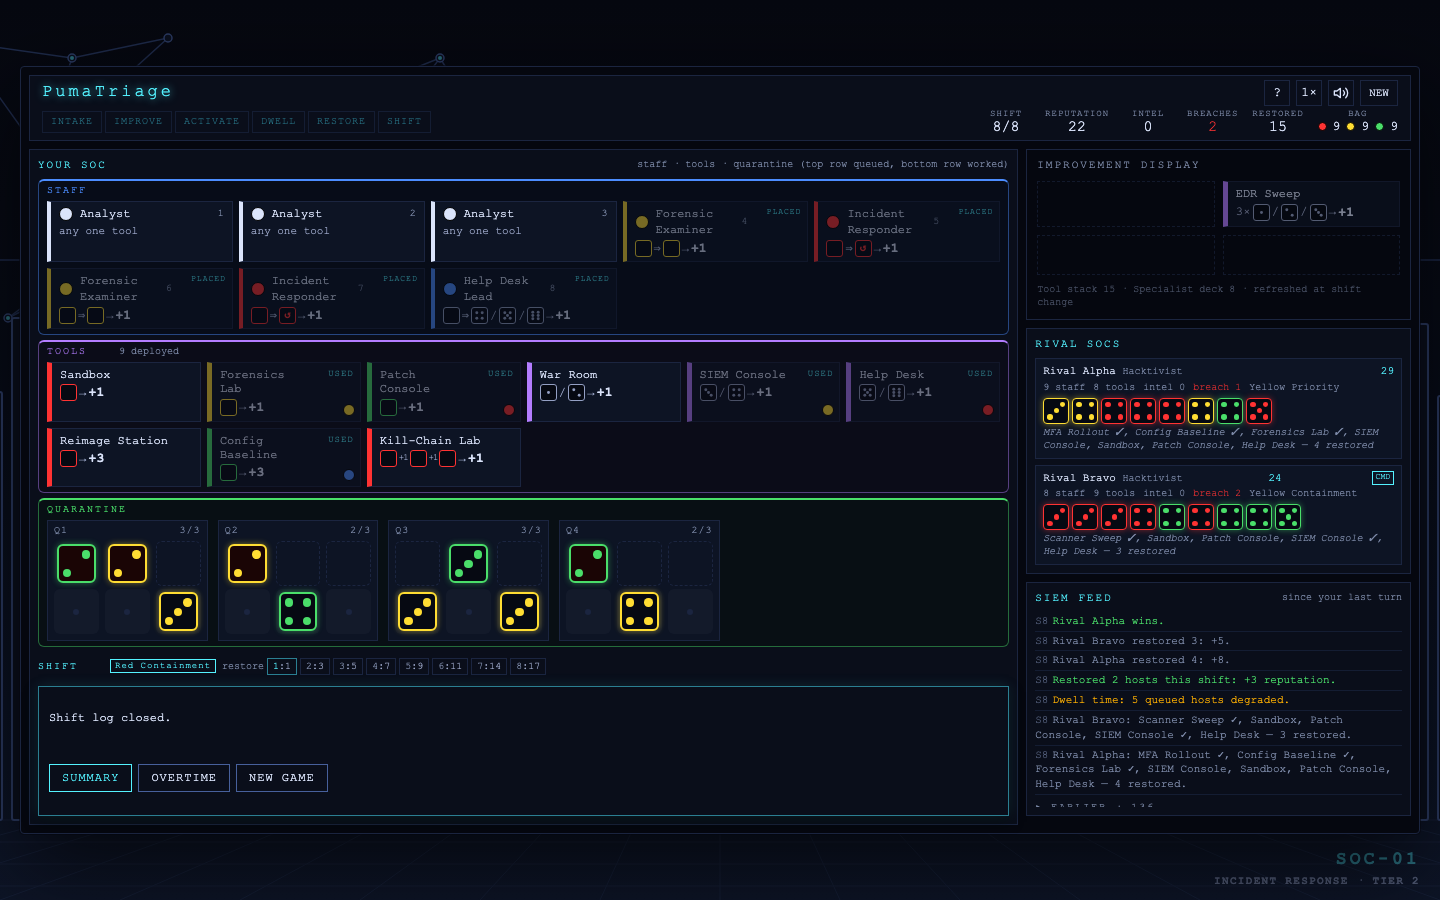
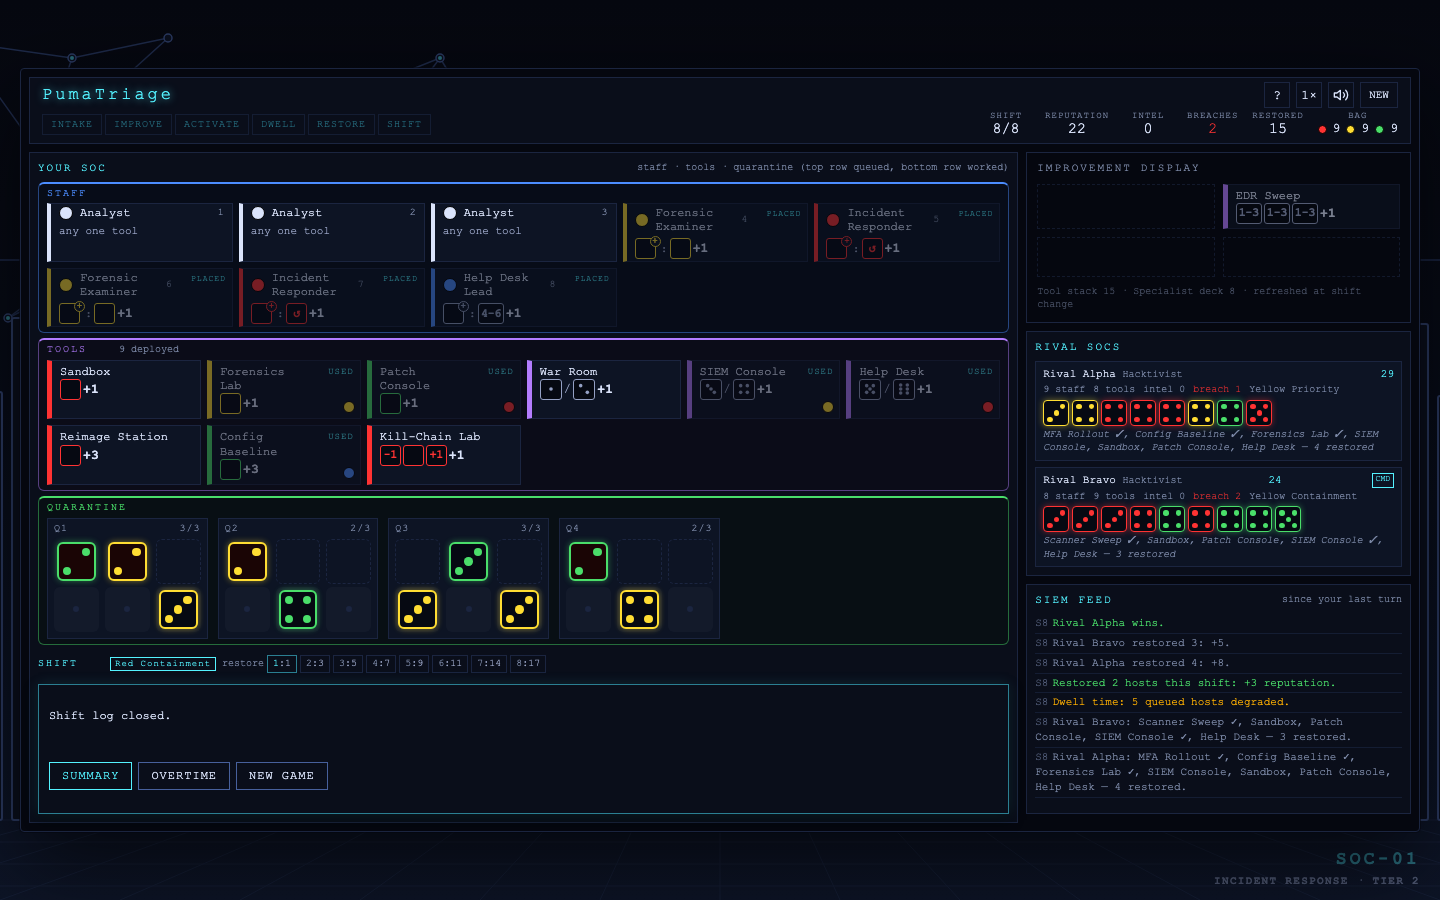
Dice notation as the printed cards; stop dice sliding on every action
Notation, from the Dice Hospital reference page:
- What a die needs is written inside it: two values stay as faces
  (War Room 1/2), a wider range is a number (EDR Sweep 1-3 1-3 1-3), a run
  is -1 · blank · +1, the same value is = = =.
- No arrows. A tool is its dice, then the heal. A specialist is its
  trigger die, badged + as on the printed card, a colon, then the
  follow-up: Incident Responder reads [red+] : [red ↺] +1.
- Dice on the cards grow from 17 to 21px. Cards keep their height: the
  space comes out of the card padding and a name line trimmed to its
  dot, and staff cards keep a 3-4px gap between name and dice.

Fix: every action slid every die, as if animating back into place. A
render drops the side table's fitted height, so for a moment the
centred game sat elsewhere (38px higher at 1440x900), and the FLIP
animation measured the dice there. The heights now go back on straight
after the render, before anything reads a position: an analyst click
went from 11 of 11 dice sliding to none. Only showed where the side
column is the taller one, which is why the preview pane missed it.

Rules untouched (headless sims unchanged). README and screenshots
updated.

diff --git a/index.html b/index.html
@@ -406,10 +406,10 @@ a { color: var(--accent); }
 .dept-tile .meep-on { position: absolute; right: 6px; bottom: 6px; width: 12px; height: 12px; }
 
 .meeple {
-  display: flex; flex-direction: column; gap: 3px; padding: 6px 8px; border: 1px solid var(--border); border-left: 4px solid var(--border);
+  display: flex; flex-direction: column; gap: 3px; padding: 5px 8px 4px; border: 1px solid var(--border); border-left: 4px solid var(--border);
   background: var(--panel-2); cursor: default; font-size: 12px; min-height: 52px; transition: box-shadow .2s, border-color .2s; position: relative;
 }
-.meeple .mh { display: flex; align-items: center; gap: 7px; color: var(--white); }
+.meeple .mh { display: flex; align-items: center; gap: 7px; color: var(--white); line-height: 14px; } /* the dot's height: room for the dice below */
 .meeple .dot { width: 14px; height: 14px; border-radius: 50%; border: 1px solid #000; flex: none; }
 .meeple .key { color: var(--text-dim); font-size: 10px; margin-left: auto; }
 .meeple .ab { font-size: 11px; color: var(--text); line-height: 1.3; }
@@ -450,14 +450,17 @@ a { color: var(--accent); }
 
 /* Pictograms: a card's rule in dice. */
 .pg { display: inline-flex; align-items: center; flex-wrap: wrap; gap: 2px; line-height: 1; vertical-align: middle; }
-.pd { box-sizing: border-box; width: 17px; height: 17px; flex: none; display: inline-flex; align-items: center; justify-content: center;
+.pd { box-sizing: border-box; min-width: 21px; height: 21px; padding: 0 2px; flex: none; display: inline-flex; align-items: center; justify-content: center;
   border: 1.5px solid currentColor; border-radius: 3px; background: #060912; color: #94a0c4; }
-.pd svg { width: 13px; height: 13px; fill: currentColor; }
-.pd b { font: bold 11px/1 var(--font-mono); }
+.pd svg { width: 16px; height: 16px; fill: currentColor; }
+.pd b { font: bold 12px/1 var(--font-mono); letter-spacing: -0.5px; }
+/* A specialist's trigger: the die it heals, badged + as on the printed card. */
+.pd.trig { position: relative; margin-right: 3px; }
+.pd.trig::after { content: "+"; position: absolute; top: -3px; right: -6px; width: 9px; height: 9px; border-radius: 50%;
+  border: 1px solid currentColor; background: var(--panel-2); font: bold 9px/8px var(--font-mono); text-align: center; }
 .pd.c-red { color: var(--red); } .pd.c-yellow { color: var(--yellow); } .pd.c-green { color: var(--green); }
 .pd.c-pink { color: var(--pink); } .pd.c-white { color: var(--white); } .pd.c-blue { color: var(--blue); }
 .ps { color: var(--text); font-size: 12px; }
-.ps.pl { font-size: 9px; letter-spacing: -1px; } /* the +1 between dice in a run */
 .pe { color: var(--white); font-size: 13px; font-weight: bold; } .pe.c-pink { color: var(--pink); }
 .pt { color: var(--text); font-size: 11px; }
 .dept-tile .dr, .meeple .ab, .spec-card .sd { color: var(--text); }
@@ -802,12 +805,12 @@ details.addons summary::-webkit-details-marker { display: none; }
   .grp { padding: 3px 8px 5px; margin-bottom: 5px; }
   .grp > .board-row { margin-bottom: 3px; }
   /* Staff stay cards: the pictogram row is one line, the sentence is the hover box. */
-  .meeple { min-height: 0; padding: 4px 8px; gap: 2px; }
+  .meeple { min-height: 0; padding: 2px 8px 2px; gap: 4px; }
   /* Tools: shorter tiles in narrower columns, so one more fits a row. */
   #depts { grid-template-columns: repeat(auto-fill, minmax(150px, 1fr)); gap: 6px; }
-  .dept-tile { min-height: 0; padding: 5px 18px 5px 8px; }
+  .dept-tile { min-height: 0; padding: 4px 18px 4px 8px; }
   .dept-tile .dn { font-size: 12px; }
-  .dept-tile .dr { font-size: 11px; margin-top: 2px; }
+  .dept-tile .dr { font-size: 11px; margin-top: 0; }
   .dept-tile .meep-on { right: 5px; bottom: 5px; }
   .ward { padding: 3px 6px 6px; }
   .slot { width: calc(var(--die) + 6px); height: calc(var(--die) + 6px); }
@@ -4387,8 +4390,8 @@ function rebuildLog() {
 /* The board keeps the tallest it has been this game at this window size:
    the floating game settles at its largest, with the action strip on the
    column's floor and the SIEM feed ending beside it, and a longer prompt or
-   a new row of tools never nudges it back down. Measured last, once the
-   strip's prompt and buttons are in. */
+   a new row of tools never nudges it back down. Measured once the strip's
+   prompt and buttons are in, and before the FLIP animations read positions. */
 function holdBoard() {
   const board = document.getElementById("board");
   if (!board || !document.getElementById("strip")) return;
@@ -4415,12 +4418,15 @@ function updateAll() {
   UI.wideTable = window.matchMedia(WIDE_TABLE_MQ).matches;
   snapshotRects();
   renderBoard(); renderRivals(); updateHUD(); updatePhaseUI();
+  // Heights go back on before anything reads a position: a render drops the
+  // side table's fitted height, and the centred game would sit elsewhere for
+  // the FLIP moves below, which then slid every die in from that phantom spot.
+  holdBoard();
   playFlip();
   playCardFlip();
   playTake();
   repositionGhosts();
   markAttention();
-  holdBoard();
   refreshTip();
   UI.leaving = null;
 }
@@ -4556,32 +4562,44 @@ function specDesc(def) {
    PICTOGRAMS — the cards say it in dice, as the board game does;
    the sentence lives in the hover box. A die is coloured by the
    host it takes ("any" is steel), and its face says what else:
-   pips for a required value, = for "the same value", ↺ for "that
-   same host again". Dice in a run are joined by +1.
+   what it needs, written inside it as the board game does: two
+   allowed values as faces (1/2), a wider range as numbers (1-3),
+   = for "the same value", -1 / blank / +1 across a run, ↺ for
+   "that same host again".
    ============================================================ */
 const PIPS = { 1: [[6, 6]], 2: [[3.5, 3.5], [8.5, 8.5]], 3: [[3.5, 3.5], [6, 6], [8.5, 8.5]], 4: [[3.5, 3.5], [8.5, 3.5], [3.5, 8.5], [8.5, 8.5]], 5: [[3.5, 3.5], [8.5, 3.5], [6, 6], [3.5, 8.5], [8.5, 8.5]], 6: [[3.5, 3], [8.5, 3], [3.5, 6], [8.5, 6], [3.5, 9], [8.5, 9]] };
-function pgDie(colour, mark) {
+function pgDie(colour, mark, cls) {
   const inner = typeof mark === "number"
     ? `<svg viewBox="0 0 12 12" aria-hidden="true">${PIPS[mark].map(([x, y]) => `<circle cx="${x}" cy="${y}" r="1.35"/>`).join("")}</svg>`
     : mark ? `<b>${mark}</b>` : "";
-  return `<span class="pd c-${colour || "any"}">${inner}</span>`;
+  return `<span class="pd c-${colour || "any"}${cls ? " " + cls : ""}">${inner}</span>`;
 }
 const pgEff = t => `<span class="pe">${t}</span>`;
 const pgSep = t => `<span class="ps">${t}</span>`;
-// The dice a selection takes: values as faces (1/2), a count when they are alike.
+// The dice a selection takes. Two allowed values read best as faces (1/2);
+// a wider range goes inside each die (1-3); a run is -1, blank, +1.
 function pgSel(sel, colourOf) {
   const n = sel.n, colour = i => (colourOf ? colourOf(i) : sel.colour) || "any";
-  if (sel.values) {
+  const count = () => pgSep(`${sel.min !== undefined && sel.min !== n ? "≤" : ""}${n}×`);
+  if (sel.values && sel.values.length === 2) {
     const faces = sel.values.map(v => pgDie(colour(0), v)).join(pgSep("/"));
-    return (n > 1 ? pgSep(`${sel.min !== undefined && sel.min !== n ? "≤" : ""}${n}×`) : "") + faces;
+    return (n > 1 ? count() : "") + faces;
+  }
+  if (sel.values) {
+    const v = sel.values, run = v.every((x, i) => !i || x === v[i - 1] + 1);
+    const range = run ? `${v[0]}-${v[v.length - 1]}` : v.join(",");
+    return Array.from({ length: n }, (_, i) => pgDie(colour(i), range)).join("");
   }
   if (sel.rel === "sameValue") return Array.from({ length: n }, (_, i) => pgDie(colour(i), "=")).join("");
-  if (sel.rel === "consecutive") return Array.from({ length: n }, (_, i) => pgDie(colour(i))).join(`<span class="ps pl">+1</span>`);
+  if (sel.rel === "consecutive") {
+    const mid = Math.floor((n - 1) / 2);
+    return Array.from({ length: n }, (_, i) => pgDie(colour(i), i === mid ? "" : (i > mid ? "+" : "-") + Math.abs(i - mid))).join("");
+  }
   if (n > 2 || (sel.min !== undefined && sel.min !== n)) return pgSep(`${sel.min !== undefined && sel.min !== n ? "≤" : ""}${n}×`) + pgDie(colour(0));
   return Array.from({ length: n }, (_, i) => pgDie(colour(i))).join("");
 }
 const OP_GLYPH = { reroll: "↻", recolour: "◐", flip: "⇅", park: "⤓" };
-// A tool: the dice it takes → what it does. A pink die marks the hypervisor
+// A tool: the dice it takes, then what it does to them; no arrow, as on the printed tiles. A pink die marks the hypervisor
 // or guest a Virtualization tool needs, and its own, larger heal is pink.
 function deptPicto(def) {
   const sel = def.sel;
@@ -4595,31 +4613,31 @@ function deptPicto(def) {
   if (def.op === "rerollOther") return pg(pgDie(PINK) + pinkEff(def.pinkHeal) + " " + pgDie("any") + pgEff(OP_GLYPH.reroll));
   if (def.pinkOne && def.heal) return pg(pgDie("any", "=") + pgEff(`+${def.heal}`) + " " + pgDie(PINK, "=") + pinkEff(def.pinkHeal));
   const eff = def.pinkHeal ? `${pinkEff(def.pinkHeal)}${pgSep("/")}${pgEff(`+${def.heal}`)}` : pgEff(def.heal ? `+${def.heal}` : OP_GLYPH[def.op] || "");
-  return pg(`${pgSel(sel, colourOf)}${pgSep("→")}${eff}`);
+  return pg(`${pgSel(sel, colourOf)} ${eff}`);
 }
-// A specialist: what sets it off ⇒ its follow-up.
+// A specialist: the die it heals (badged +) : its follow-up, the printed cards' colon.
 const SPEC_SHORT = { copy: "copies a specialist", advisor: "desk: a second vendor line", strategist: "desk: draw 3, keep 1", integration: "+ another tool's upgrade", automation: "+ this tool's upgrade again" };
 function specPicto(def) {
   if (def.special) return `<span class="pt">${SPEC_SHORT[def.special] || ""}</span>`;
   const w = def.when, t = def.then;
   const trig = w.always ? pgSep("any tool") : w.dischargedAny ? pgDie("any", "✓") : w.dischargedPink ? pgDie("pink", "✓")
-    : pgDie(w.healedColour || (w.healedPink ? "pink" : "any"));
+    : pgDie(w.healedColour || (w.healedPink ? "pink" : "any"), "", "trig");
   let then;
   if (t.choice === "admissions") then = `<span class="pt">hand off or admit</span>`;
   else if (t.choice === "pathologist") then = `<span class="pt">close a breach → +1 intel</span>`;
   else if (t.op === "score") then = pgEff(`+${t.n} rep`);
   else if (t.op === "bloodBag") then = pgEff(`+${t.n || 1} intel`);
-  else if (t.op === "park") then = pgSep(`${t.n}×`) + pgDie("any") + pgSep("→") + pgEff(OP_GLYPH.park);
-  else if (t.op) then = pgDie("any") + pgSep("→") + pgEff(OP_GLYPH[t.op]);
+  else if (t.op === "park") then = pgSep(`${t.n}×`) + pgDie("any") + " " + pgEff(OP_GLYPH.park);
+  else if (t.op) then = pgDie("any") + " " + pgEff(OP_GLYPH[t.op]);
   else if (t.and) then = pgDie("any") + pgEff("+1") + " " + pgDie("any") + pgEff("−1");
   else if (t.pair) then = pgDie("pink") + pgEff("+1") + " " + pgDie("any", "=") + pgEff("+1");
   else {
     const [kind, c] = (t.from || "other").split(":");
     const one = kind === "healedOf" ? pgDie(c, "↺") : kind === "otherOf" ? pgDie(c) : kind === "otherValueEqPre" ? pgDie("any", "=") : null;
     const dice = one ? (t.n > 1 ? one.repeat(t.n) : one) : pgSel({ n: t.n, values: t.values });
-    then = dice + pgSep("→") + pgEff(`+${t.heal}`);
+    then = dice + " " + pgEff(`+${t.heal}`);
   }
-  return `<span class="pg">${trig}${pgSep("⇒")}${then}</span>`;
+  return `<span class="pg">${trig}${pgSep(":")}${then}</span>`;
 }
 /* ============================================================
    HOVER BOX — one themed box for the whole page. Cards carry

diff --git a/README.md b/README.md
@@ -36,7 +36,7 @@ Each of the eight shifts runs six phases: **Intake** (three hosts are rolled per
 - **Undo** during activation (blocked past a re-roll), autosave and resume, a speed control for rival turns
 - **Overtime** — at the shift 8 scorecard, play on from the same board for another eight shifts; only the shift counter resets, and the next scorecard counts everything since the start
 - **The board is the table** — dice scale with the window, and one strip under the quarantine segments carries the current rule, the prompt and the buttons; a phase strip and the restoration ladder keep the round structure and scoring brackets in view; on laptop-height screens the staff row packs into chips and the strip loses its header so the quarantine segments stay on screen
-- **Rules in dice** — like the printed cards, every tool and specialist shows its rule as a row of dice pictograms (a coloured die for the host it takes, faces for the values it needs, = for "same value", ↺ for "that host again", +1 links for a run); hover any card, chip or token for the full rule in a themed box
+- **Rules in dice** — like the printed cards, every tool and specialist shows its rule as a row of dice pictograms (a coloured die for the host it takes, with what it needs written inside, as the board game does: two faces for a pair of values, 1-3 for a range, = = = for the same value, -1 · +1 across a run, ↺ for "that host again"; a specialist reads trigger : follow-up, its trigger die badged +, as on the printed cards); hover any card, chip or token for the full rule in a themed box
 - **A SOC around the game** — the board floats in the middle of the window over a line-drawn operations room; the SIEM feed shows what happened since your last turn, with everything earlier under a fold, and ends level with the bottom of the action strip
 - **Tactical look** — the cyan-on-navy palette PumaRally and PumaTycoon share, monospace terminal type; FLIP-animated dice
 - **Sound effects** — Web Audio API procedurally generated retro sounds (mutable)
